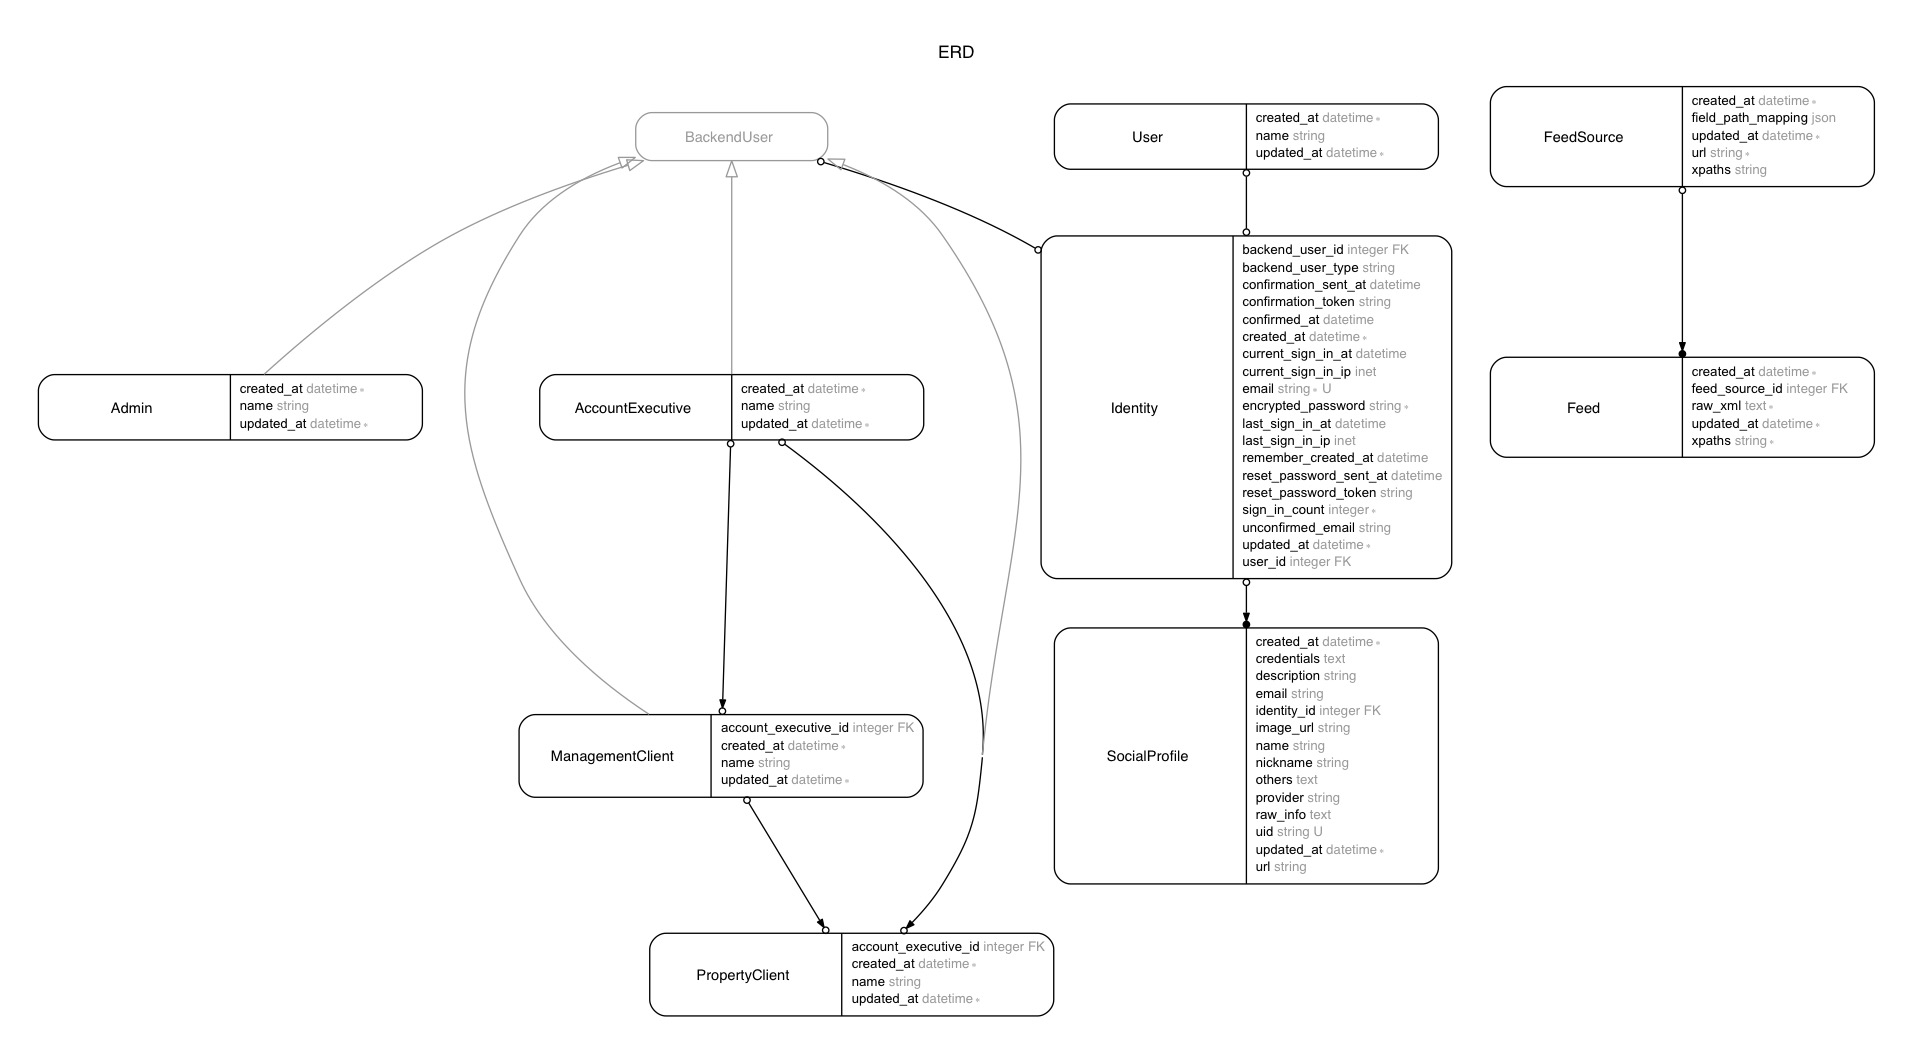
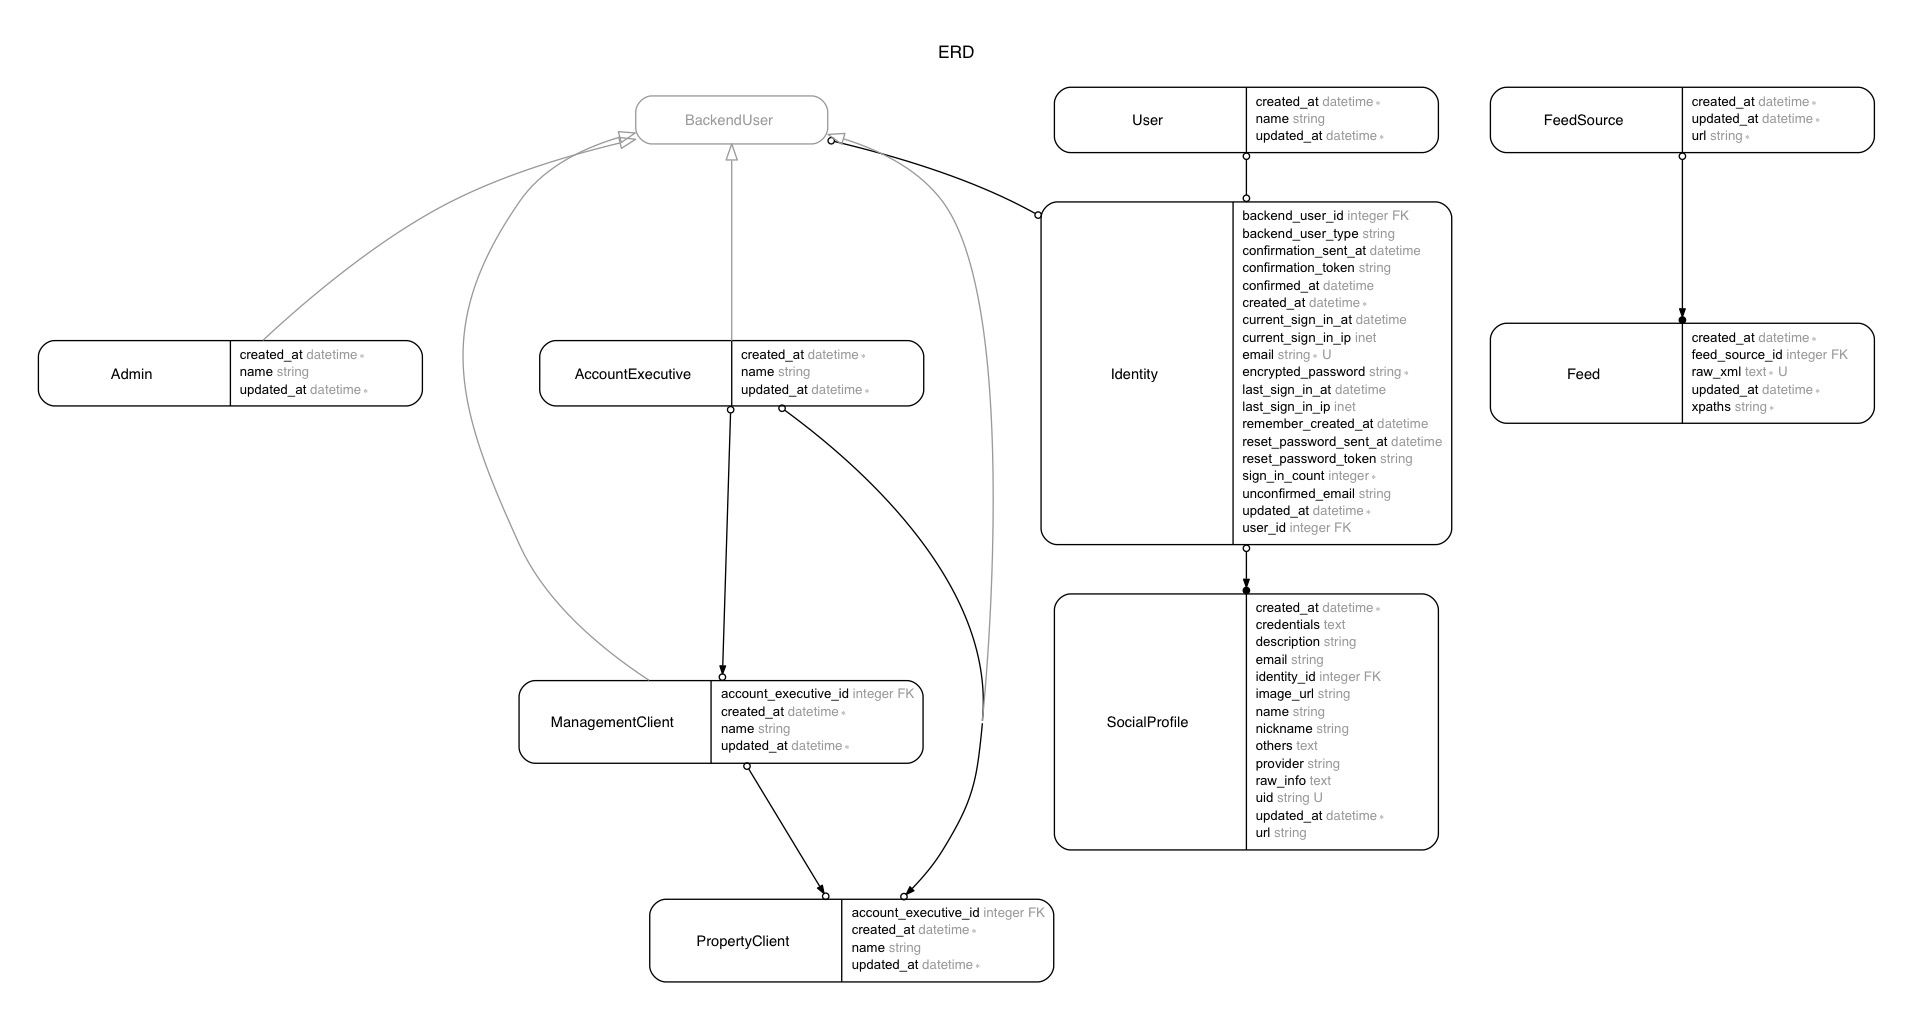
Refactor app/models/feed_source.rb

diff --git a/app/models/feed_source.rb b/app/models/feed_source.rb
@@ -2,46 +2,39 @@
 #
 # Table name: feed_sources
 #
-#  id                 :integer          not null, primary key
-#  url                :string           not null
-#  xpaths             :string           is an Array
-#  field_path_mapping :json
-#  created_at         :datetime         not null
-#  updated_at         :datetime         not null
+#  id         :integer          not null, primary key
+#  url        :string           not null
+#  created_at :datetime         not null
+#  updated_at :datetime         not null
 #
 
 class FeedSource < ApplicationRecord
   has_many :feeds
-
-  before_save :set_xpaths
 
   def self.for_url(url)
     self.where(url: url).first_or_create!
   end
 
   def import_feed
-    xml_doc = self.import_xml_from_url
-    self.feeds.create(
-      raw_xml: xml_doc,
-      xpaths:  self.all_xpaths(xml_doc)
-    )
+    xml_doc = import_xml_from_url
+    self.feeds.create(raw_xml: xml_doc, xpaths:  xpaths_for_xml_doc(xml_doc))
   end
 
-  def import_xml_from_url
+  # Get a most recent list of all the xpaths of this feed source.
+  def xpaths
+    self.feeds.last.xpaths
+  end
+
+  # Imports xml for the registered source url.
+  private def import_xml_from_url
     # http://www.nokogiri.org/tutorials/parsing_an_html_xml_document.html#from_the_internets
     Nokogiri::XML(open(url)) { |config| config.strict.nonet.noblanks }
   end
 
   # Generates an array of all the xpath from a Nokogiri-parsed document.
   # Duplicate xpaths will be removed and array indices will be replaced with `[]`.
-  def all_xpaths(xml_doc)
+  private def xpaths_for_xml_doc(xml_doc)
     # http://stackoverflow.com/a/15692699/3837223
     xml_doc.xpath('//*').map { |node| node.path.gsub(/\[\d*\]/, "[]") }.uniq
-  end
-
-  # Set the xpaths of this feed source.
-  private def set_xpaths
-    # http://www.nokogiri.org/tutorials/parsing_an_html_xml_document.html#from_the_internets
-    self.xpaths = self.all_xpaths(self.import_xml_from_url)
   end
 end

diff --git a/db/schema.rb b/db/schema.rb
@@ -28,11 +28,9 @@ ActiveRecord::Schema.define(version: 20161124004957) do
   end
 
   create_table "feed_sources", force: :cascade do |t|
-    t.string   "url",                null: false
-    t.string   "xpaths",                          array: true
-    t.json     "field_path_mapping"
-    t.datetime "created_at",         null: false
-    t.datetime "updated_at",         null: false
+    t.string   "url",        null: false
+    t.datetime "created_at", null: false
+    t.datetime "updated_at", null: false
   end
 
   create_table "feeds", force: :cascade do |t|

diff --git a/test/factories/feed_sources.rb b/test/factories/feed_sources.rb
@@ -2,12 +2,10 @@
 #
 # Table name: feed_sources
 #
-#  id                 :integer          not null, primary key
-#  url                :string           not null
-#  xpaths             :string           is an Array
-#  field_path_mapping :json
-#  created_at         :datetime         not null
-#  updated_at         :datetime         not null
+#  id         :integer          not null, primary key
+#  url        :string           not null
+#  created_at :datetime         not null
+#  updated_at :datetime         not null
 #
 
 FactoryGirl.define do

diff --git a/test/models/feed_source_test.rb b/test/models/feed_source_test.rb
@@ -2,12 +2,10 @@
 #
 # Table name: feed_sources
 #
-#  id                 :integer          not null, primary key
-#  url                :string           not null
-#  xpaths             :string           is an Array
-#  field_path_mapping :json
-#  created_at         :datetime         not null
-#  updated_at         :datetime         not null
+#  id         :integer          not null, primary key
+#  url        :string           not null
+#  created_at :datetime         not null
+#  updated_at :datetime         not null
 #
 
 require "test_helper"

diff --git a/db/migrate/20161124004654_create_feed_sources.rb b/db/migrate/20161124004654_create_feed_sources.rb
@@ -2,8 +2,6 @@ class CreateFeedSources < ActiveRecord::Migration[5.0]
   def change
     create_table :feed_sources do |t|
       t.string :url,                 null: false
-      t.string :xpaths, array: true
-      t.json :field_path_mapping
 
       t.timestamps
     end
